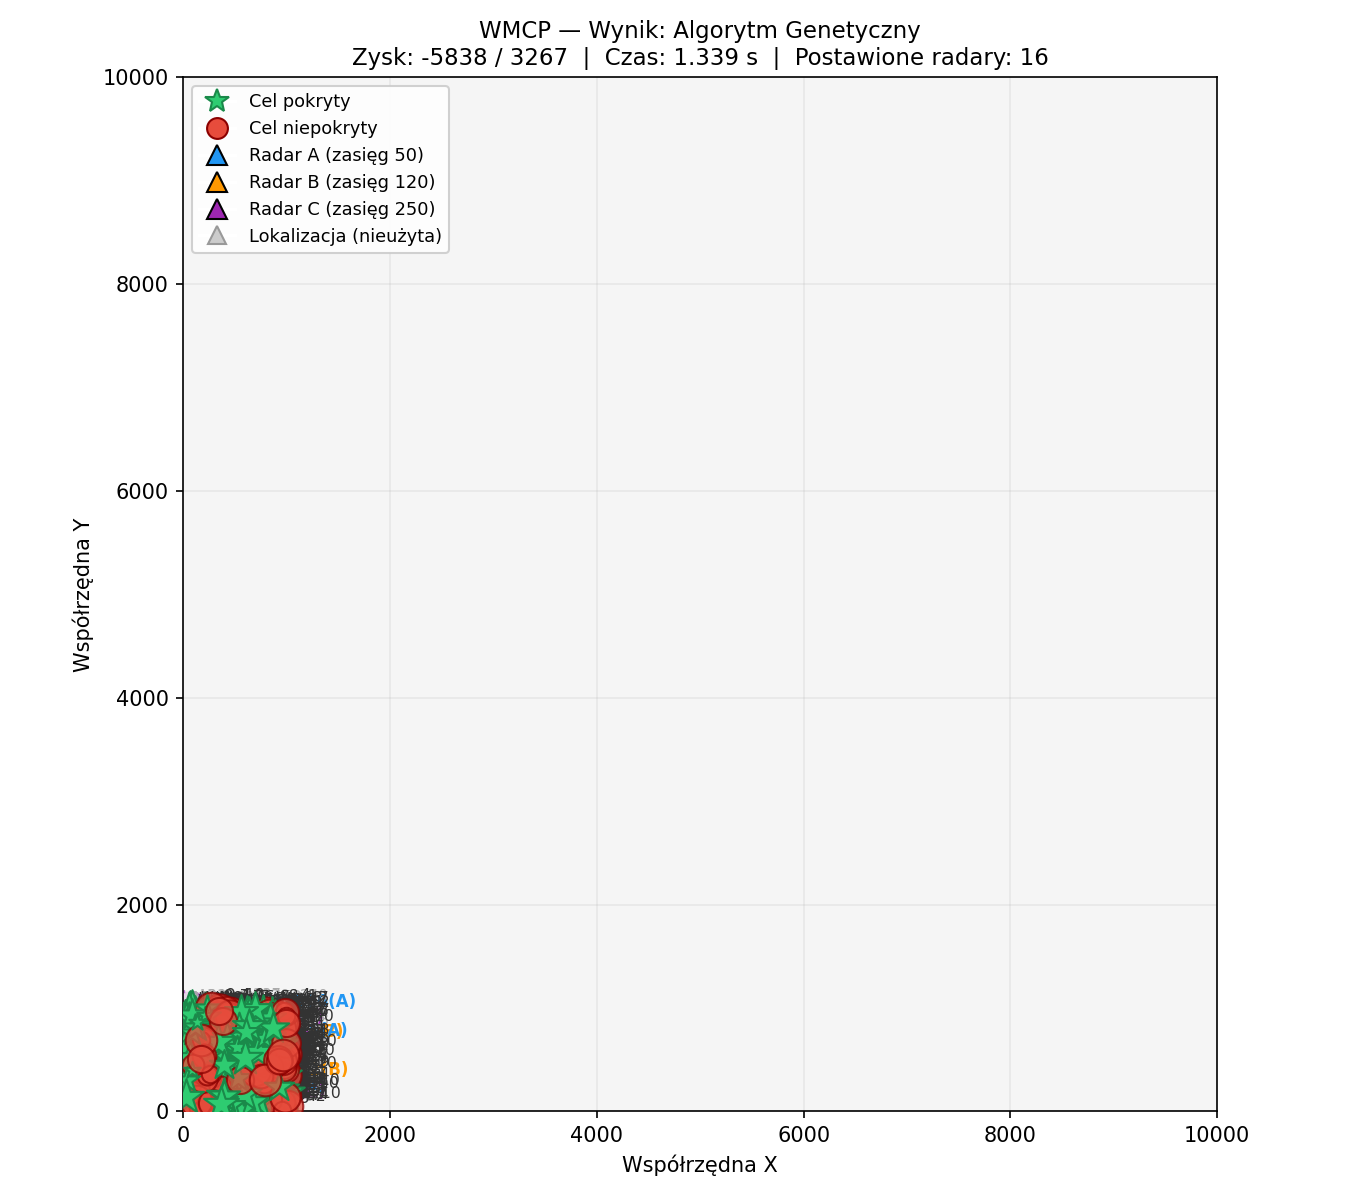
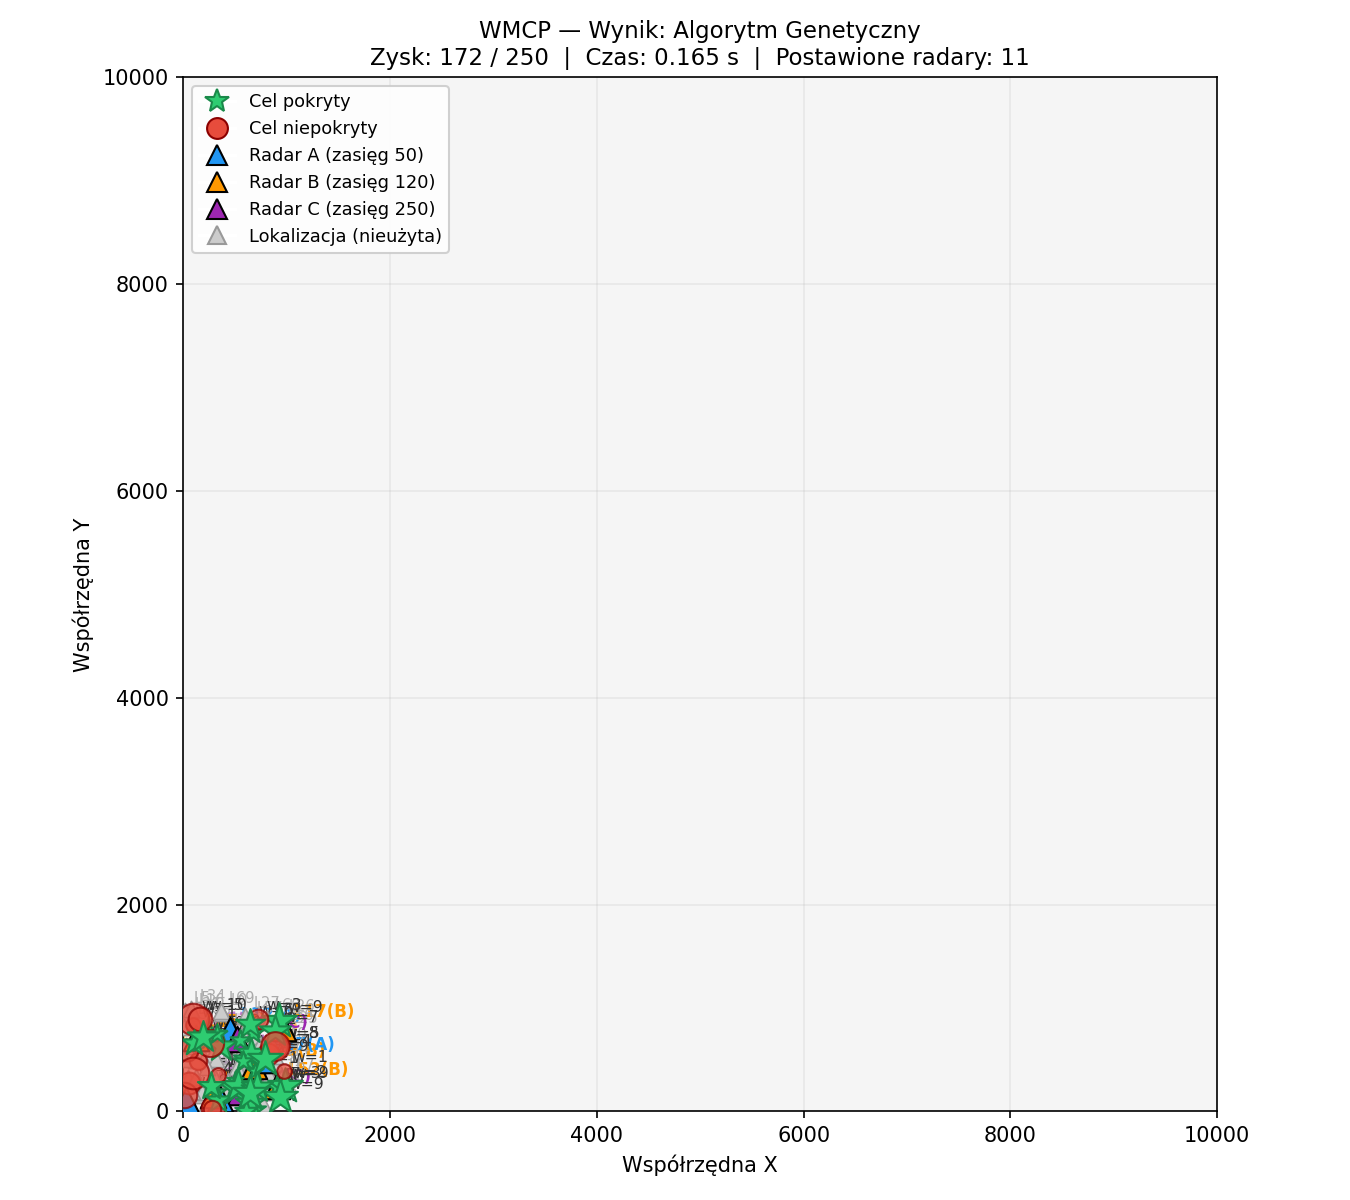
fix: soft budget replaced with constraint in GA, DBFO solution initialize to avoid -inf, consisten mapping between a and mapa_pokrycia in dane.py

Changed region(s): [[0.2489, 0.0308, 0.7778, 0.0617], [0.1244, 0.8017, 0.28, 0.925]]

diff --git a/dane.py b/dane.py
@@ -16,8 +16,8 @@ else:
     np.random.seed(42)  #seed
     random.seed(42)
     
-    liczba_lokalizacji = 250
-    liczba_celow = 600
+    liczba_lokalizacji = 70
+    liczba_celow = 50
     rozmiar_mapy = 1000
     
     lokalizacje = np.random.uniform(0, rozmiar_mapy, (liczba_lokalizacji, 2))
@@ -51,3 +51,8 @@ for i in range(I):
                 mapa_pokrycia[(i, k)].add(j)
             else:
                 a[(i, j, k)] = 0
+
+mapa_pokrycia = {}
+for i in range(I):
+    for k in K:
+        mapa_pokrycia[(i, k)] = [j for j in range(J) if a[(i, j, k)] == 1]

diff --git a/genetyk.py b/genetyk.py
@@ -22,12 +22,11 @@ def genetyk():
                 calkowity_koszt += koszt_radarow[typ_radaru]
                 zdobyte_cele.update(mapa_pokrycia[(i, typ_radaru)])
         
-        # Obliczamy zysk z celów
-        zysk = sum(wagi[j] for j in zdobyte_cele)
-        # Łagodna kara (zamiast kary śmierci) za przekroczenie budżetu
-        kara = max(0, calkowity_koszt - B) * 5 
+        if calkowity_koszt > B:
+            return -1, calkowity_koszt # kara
         
-        return zysk - kara, calkowity_koszt
+        zysk = sum(wagi[j] for j in zdobyte_cele)
+        return zysk, calkowity_koszt
 
     # Krzyzowanie dwoch rodzicow
     def krzyzowanie(rodzic1, rodzic2):

diff --git a/DBFO.py b/DBFO.py
@@ -61,8 +61,9 @@ def DBFO():
         bakterie_dyskretne[b] = dekoduj_na_stany(bakterie_ciagle[b])
         zdrowie_bakterii[b] = ocen_bakterie(bakterie_dyskretne[b])
 
-    najlepsza_pozycja_globalnie = None
-    najlepszy_koszt_globalnie = float('inf')
+    bakterie_dyskretne[0] = dekoduj_na_stany(bakterie_ciagle[0])
+    najlepsza_pozycja_globalnie = bakterie_dyskretne[0].copy()
+    najlepszy_koszt_globalnie = ocen_bakterie(bakterie_dyskretne[0])
 
 
     for l in range(liczba_krokow_eliminacji):
@@ -129,6 +130,9 @@ def DBFO():
             for j in range(J):
                 if a[(i, j, k)] == 1:
                     pokryte.add(j)
+
+    if najlepsza_pozycja_globalnie is None:
+        return {"algorytm": "Dyskretne BFO", "obj": 0, "czas": 0, "postawione": [], "pokryte": []}
 
     return {
         "algorytm": "Dyskretne BFO",